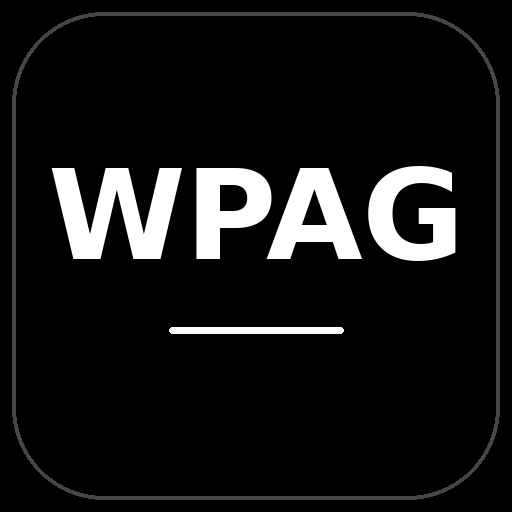
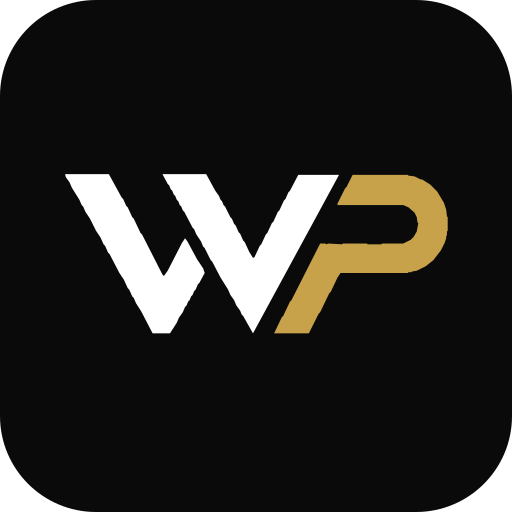
feat(brand): implement WPAG production identity assets

Changed region(s): [[0.0938, 0.3125, 0.9062, 0.6562], [0.0, 0.0, 1.0, 1.0]]

diff --git a/src/components/site-header.tsx b/src/components/site-header.tsx
@@ -1,5 +1,6 @@
 "use client";
 
+import Image from "next/image";
 import Link from "next/link";
 import { useState } from "react";
 
@@ -21,15 +22,26 @@ export function SiteHeader() {
   }
 
   return (
-    <header className="fixed inset-x-0 top-0 z-50 border-b border-white/10 bg-black/90 text-white backdrop-blur">
+    <header className="fixed inset-x-0 top-0 z-50 border-b border-white/10 bg-[#0A0A0A]/90 text-white backdrop-blur">
       <Container>
         <div className="flex h-20 items-center justify-between gap-3">
           <Link
             href="/"
             onClick={closeMenu}
-            className="min-w-0 truncate whitespace-nowrap text-xs font-semibold uppercase tracking-[0.14em] text-white sm:text-sm sm:tracking-[0.2em]"
+            aria-label="Wealth Path AI Global home"
+            className="flex min-w-0 items-center gap-2.5 text-white sm:gap-3"
           >
-            Wealth Path AI Global
+            <Image
+              src="/brand/wpag-primary-master.svg"
+              alt=""
+              width={530}
+              height={235}
+              priority
+              className="h-7 w-auto shrink-0 sm:h-8"
+            />
+            <span className="truncate whitespace-nowrap text-[11px] font-semibold uppercase tracking-[0.12em] sm:text-sm sm:tracking-[0.16em]">
+              Wealth Path AI Global
+            </span>
           </Link>
 
           <nav
@@ -80,7 +92,7 @@ export function SiteHeader() {
         <nav
           id="mobile-navigation"
           aria-label="Mobile navigation"
-          className="border-t border-white/10 bg-black md:hidden"
+          className="border-t border-white/10 bg-[#0A0A0A] md:hidden"
         >
           <Container className="py-6">
             <div className="flex flex-col">

diff --git a/src/app/opengraph-image.tsx b/src/app/opengraph-image.tsx
@@ -14,8 +14,8 @@ export default function OpenGraphImage() {
         style={{
           width: "100%",
           height: "100%",
-          background: "#000000",
-          color: "#ffffff",
+          background: "#0A0A0A",
+          color: "#FFFFFF",
           display: "flex",
           flexDirection: "column",
           justifyContent: "center",
@@ -44,14 +44,14 @@ export default function OpenGraphImage() {
             color: "#d1d1d1",
           }}
         >
-          Advancing Financial Stability Through Structured Research
+          Stability. Clarity. Legacy.
         </div>
 
         <div
           style={{
             marginTop: 60,
             fontSize: 24,
-            color: "#8f8f8f",
+            color: "#C8A24A",
           }}
         >
           Human Financial Operating System (HFOS)

diff --git a/src/app/manifest.ts b/src/app/manifest.ts
@@ -8,8 +8,8 @@ export default function manifest(): MetadataRoute.Manifest {
       "Wealth Path AI Global is an independent research organization developing the Human Financial Operating System (HFOS) and structured systems for financial stability.",
     start_url: "/",
     display: "standalone",
-    background_color: "#000000",
-    theme_color: "#000000",
+    background_color: "#0A0A0A",
+    theme_color: "#0A0A0A",
     orientation: "portrait-primary",
     icons: [
       {

diff --git a/src/app/layout.tsx b/src/app/layout.tsx
@@ -46,6 +46,14 @@ export const metadata: Metadata = {
   creator: "Wealth Path AI Global",
   publisher: "Wealth Path AI Global",
 
+  icons: {
+    icon: [
+      { url: "/favicon.ico", sizes: "any" },
+      { url: "/icon.png", type: "image/png", sizes: "512x512" },
+    ],
+    apple: [{ url: "/apple-icon.png", sizes: "180x180", type: "image/png" }],
+  },
+
   openGraph: {
     type: "website",
     locale: "en_US",
